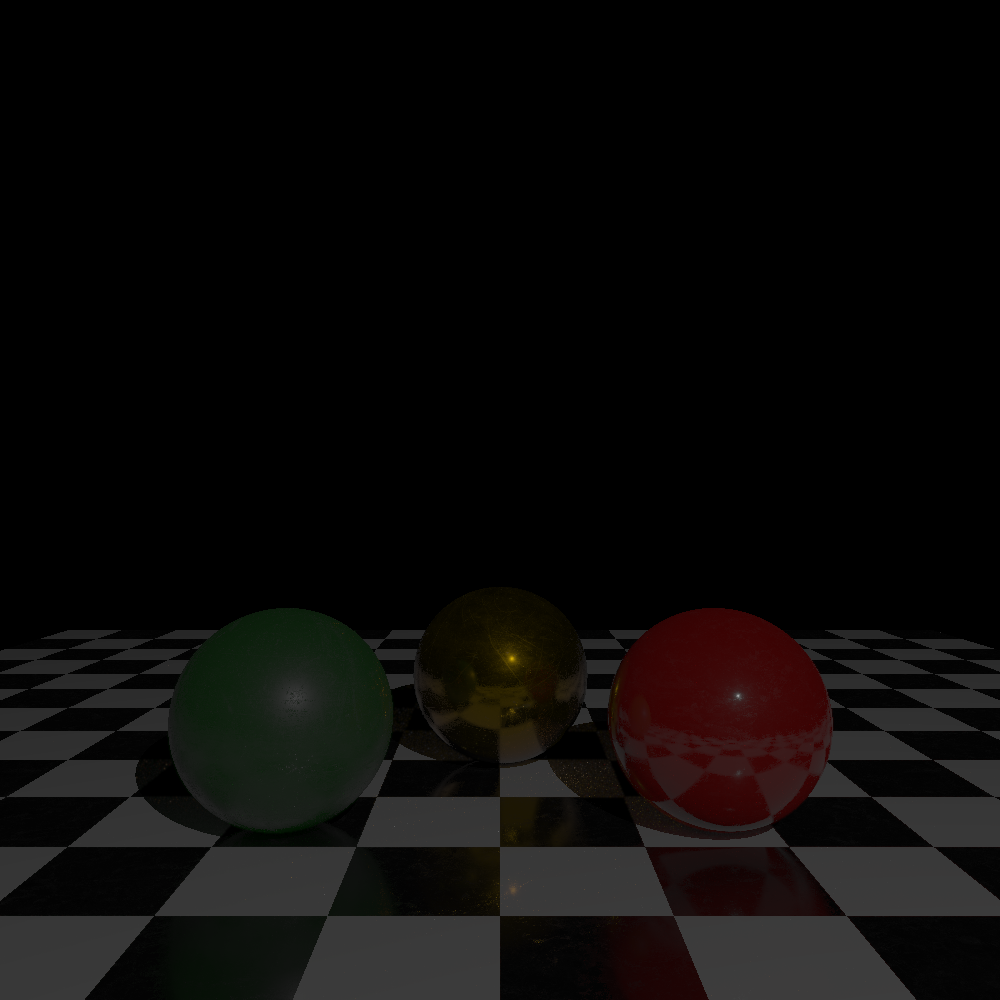
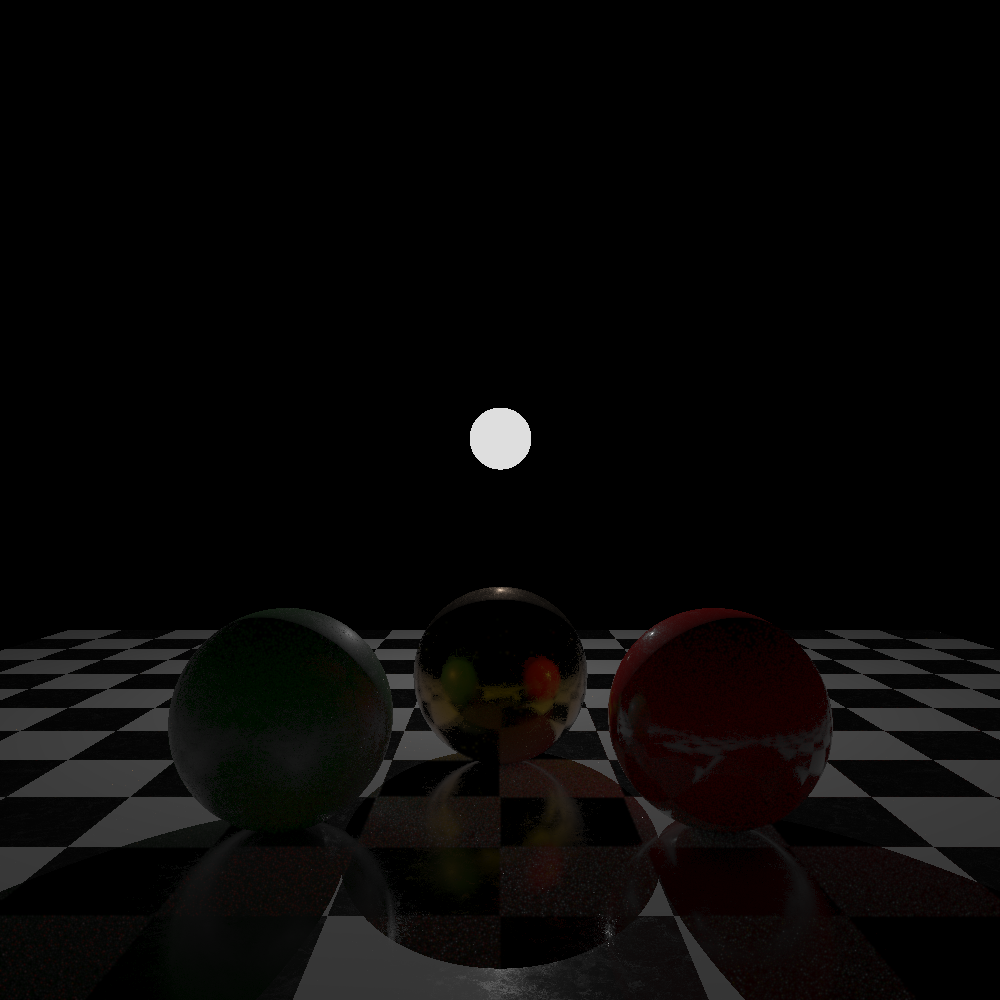
volumetric logic

Changed region(s): [[0.0, 0.589, 1.0, 1.0], [0.465, 0.403, 0.527, 0.465]]

diff --git a/src/cgg/RayTracer.java b/src/cgg/RayTracer.java
@@ -195,14 +195,23 @@ public class RayTracer implements Sampler
 	{
 		if (depth>Config.RECURSION_DEPTH) return color(0,0,0);
 		Hit __Recent = _recentIntersection(ray,depth);
-		if (__Recent==null) return Config.CLEARCOLOUR;
-		return switch (__Recent.material())
+
+		// intersection colour
+		Color gx = Config.CLEARCOLOUR;
+		if (__Recent!=null)
 		{
-		case PhysicalMaterial c -> _shadePhysical(__Recent,ray,coord,depth);
-		case SurfaceMaterial c -> _shadePhong(__Recent);
-		case SurfaceColour c -> _shadeLaemp(__Recent);
-		default -> Config.ERRORCOLOUR;
-		};
+			gx = switch (__Recent.material())
+			{
+			case PhysicalMaterial c -> _shadePhysical(__Recent,ray,coord,depth);
+			case SurfaceMaterial c -> _shadePhong(__Recent);
+			case SurfaceColour c -> _shadeLaemp(__Recent);
+			default -> Config.ERRORCOLOUR;
+			};
+		}
+
+		// combine with volumetric component
+		Color vx = _computeVolumetric(ray,__Recent);
+		return add(gx,vx);
 	}
 
 	private Hit _recentIntersection(Ray ray,int depth)
@@ -450,4 +459,34 @@ public class RayTracer implements Sampler
 	private Color _shadePosition(Hit hit,double intent) { return color(multiply(hit.position(),intent)); }
 	private Color _shadeTexture(Hit hit) { return color(hit.uv().x(),hit.uv().y(),0); }
 	private Color _shadeNormals(Hit hit) { return color(hit.normal()); }
+
+	private Color _computeVolumetric(Ray ray,Hit hit)
+	{
+		Color out = color(0);
+
+		// fallback to maximum range when no geometric intersection
+		if (hit==null) hit = new Hit(10000,ray.calculatePosition(10000),vec2(0,0),vec3(0),null);
+
+		// raymarching until intersection
+		double n = .0;
+		while (n<hit.param())
+		{
+			// iterate lightsources
+			for (Illumination p_Light : scene.lights)
+			{
+				Vec3 __RayPosition = ray.calculatePosition(n);
+				Vec3 __LightDirection = p_Light.direction(__RayPosition);
+
+				// check for obfuscation through geometry
+				Ray __Ray = new Ray(__RayPosition,__LightDirection);
+				Hit __Obfuscation = _recentIntersection(__Ray,1);
+
+				// accumulate volumetric result
+				if (__Obfuscation.param()>1) out = add(out,p_Light.intensity(__RayPosition));
+			}
+			n += .01;
+		}
+
+		return out;
+	}
 }

diff --git a/src/cgg/scne/TestingScene.java b/src/cgg/scne/TestingScene.java
@@ -33,8 +33,8 @@ public class TestingScene extends Scene
 		groot.register_geometry(__TestingSpheres);
 
 		// lighting
-		//craeveTheVorbiddenLaemp(vec3(0,-1.5,-7),color(1,1,1),.4);
-		craeveTheVorbiddenLaemp(vec3(2,-4,2),color(1,1,1),.75);
+		craeveTheVorbiddenLaemp(vec3(0,-1.5,-7),color(1,1,1),.4);
+		//craeveTheVorbiddenLaemp(vec3(2,-4,2),color(1,1,1),.4);
 		/*
 		craeveTheVorbiddenLaemp(vec3(1.25,-1,-4),color(1,.5,0),.7);
 		craeveTheVorbiddenLaemp(vec3(1.25,-2,-1),color(0,.5,1),1);
